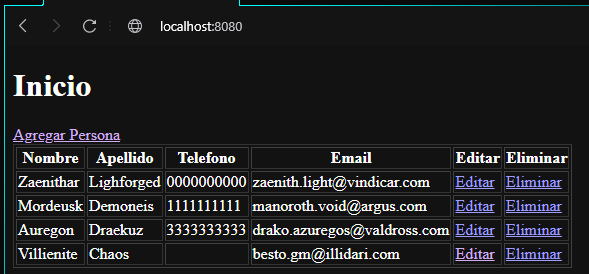
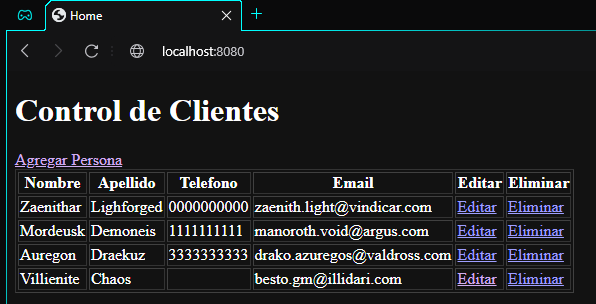
Plantillas y fragmento thymeleaf

diff --git a/Hola-Spring/src/main/resources/templates/modificar.html b/Hola-Spring/src/main/resources/templates/modificar.html
@@ -5,9 +5,9 @@
     <title>Datos de la persona</title>
 </head>
 <body>
-    <h1>Datos de la persona</h1>
+    <header th:replace="layout/plantilla :: headerPerron"></header>
     <a th:href="@{/}">Regresar</a>
-    <br><br><br>
+    <br>
     <form th:action="@{/guardar}" method="POST" th:object="${persona}">
         <input type="hidden" name="personaId" th:field="*{personaId}" /> <br>
         <label for="nombre">Nombre:</label>
@@ -23,5 +23,9 @@
         <input type="tel" name="telefono" th:field="*{telefono}" />
         <button type="submit" name="guardar">Guardar</button>
     </form>
+    <br>
+    <br>
+    <br>
+    <footer th:replace="layout/plantilla :: footerAunMasPerron"></footer>
 </body>
 </html>

diff --git a/Hola-Spring/src/main/resources/templates/index.html b/Hola-Spring/src/main/resources/templates/index.html
@@ -5,7 +5,7 @@
     <title>Home</title>
 </head>
 <body>
-<h1>Inicio</h1>
+<header th:replace="layout/plantilla :: headerPerron"></header>
 <a th:href="@{/agregar}">Agregar Persona</a>
     <table border="1">
         <tr>
@@ -25,5 +25,9 @@
             <td><a th:href="@{/eliminar/} + ${persona.personaId}">Eliminar</a></td>
         </tr>
     </table>
+<br>
+<br>
+<br>
+<footer th:replace="layout/plantilla :: footerAunMasPerron"></footer>
 </body>
 </html>

diff --git a/Hola-Spring/src/main/resources/templates/layout/plantilla.html b/Hola-Spring/src/main/resources/templates/layout/plantilla.html
@@ -1,0 +1,18 @@
+<!DOCTYPE html>
+<html lang="en"
+      xmlns:th="http://www.thymeleaf.org"
+      xmlns="http://www.w3.org/1999/xhtml">
+<head>
+    <meta charset="UTF-8"/>
+    <title>Plantilla</title>
+</head>
+<body>
+    <header th:fragment="headerPerron">
+        <h1>Control de Clientes</h1>
+    </header>
+
+    <footer th:fragment="footerAunMasPerron">
+        <p>Todos los derechos reservados</p>
+    </footer>
+</body>
+</html>

diff --git a/Readme.md b/Readme.md
@@ -1,40 +1,60 @@
-# Seccion 7
-## Validacion con Spring
+# Seccion 8
+## Plantillas Thymelead
 
-### Modelo - Persona
-- Las validaciones de Spring se pueden llevar a cabo mediante anotacion a nivel de campo
-- En caso de requerir la librria de:
-  - `<dependency><groupId>org.springframework.boot</groupId><artifactId>spring-boot-starter-validation</artifactId></dependency>`
-- Para `Strings`, `@NotEmpty` permite validar que un campo no venga vacio ni sea nulo
-- Para el campo emial, podemos usar `@Email` que tambien valdia la estructura de la cadena
+### Objetivo
+- Las plantillas de Thymeleaf nos evita tener que estar repitiendo codigo en cada una de las vistas
+  - Por ejemplo, si agregamos un `footer`, el tener que codificarlo en `index.html` y en `modificar.html`
 
-![img_3.png](img_3.png)
+### Plantillas
+- Sobre la carpeta de `templates`, agregaremos una nueva llamada `layout`
+- Luego crearemos un nuevo archivo html llamado `plantilla`
+- Configuramos la plantilla con el namespace:
+  - Thymeleaf: `xmlns:th="http://www.thymeleaf.org"`
+  - W3: `xmlns="http://www.w3.org/1999/xhtml"`
+    - Este nos permitira evitar los errores que aparecen en el archivo html
+- Como esta plantilla se va a reutilizar en index y en modificar, vamos a divirila en varias secciones
 
-### Vista - modificat.html
-- En el formulario, es necesario agregar la informacion en caso de que haya un error de validacion
-- Para validar agregamos `th:if="${#fields.hasErrors('nombre')}"`:
-  - `th:if`: componente de thymeleaf para hacer validaciones
-  - `#fields`: wildcard para referenciar los campos
-  - `.hasErrors('nombre')`: funcion que valida si hay errores sobre algun campo
-- Para desplegar mensaje de error usamos `th:errors="*{nombre}"`
-  - componente de thymeleaf para acceder a los errores de un campo en particular
-
-### Controlador - /guardar
-- En el controlador, en el path de guardar, debemos esdpecificar que el modelo persona se debe validar
-- Para ello debemos agregar `@Valid` antes del objeto persona que se pasa como argumento
-- Tambien se debe pasar como argumento el objeto `Errors` para saber si se ha recibio algun error del formulario
-- Finalmente debemos validar la existencia de errores y retornar la vista de `modificar` en caso de que los haya 
+### Configuracion - header
+- Para configurar un header como reutilizable para otras paginas debemos de hacer lo siguiente
+- Dentro del componente a reutilizar, agregamos `th:fragment="headerPerron"`. entre comillas el nombre
+- Ahora ya podemos comenzar a construir ese compoennte con lo que deseemos
 
 ![img.png](img.png)
 
-- En caso de haber un error en un campo, se desplegara el erro en el formulario
+### Reutilizacion - index.html
+- Ahora solo debemos referenciar el fragmento que hemos creadod e la siguiente forma: `<header th:replace="layout/plantilla :: headerPerron"></header>`
+  - `header` es el componente que definimos en la plantilla
+  - `th:replace` componente de thyme leaf para referenciar el fragmento
+  - `layout/plantilla` la ruta de la plantilla que contiene el fragmento
+  - `:: headerPerron` el nombre del fragmento que queremos reutilizar
 
 ![img_1.png](img_1.png)
 
-- Solo hasta llenar la informacion nos permitira guardar
-- El telefono no es requerido, por lo que no validara el contenido de ese campo
+- Con esto podemos observar que el ehader  de la plantilla ya aparece en amabas vistas
 
 ![img_2.png](img_2.png)
+
+![img_3.png](img_3.png)
+
+### Plantilla - footer
+- Podemos definir un footer dentro del mismo layout `plantilla` siempre y cuando lo configuremos de la misma forma, como un fragmento
+
+![img_4.png](img_4.png)
+
+![img_5.png](img_5.png)
+
+- Con esto podemos observar el nuevo fragmento de la plantilla en ambas paginas
+
+![img_6.png](img_6.png)
+
+![img_7.png](img_7.png)
+
+### Conlusion
+- Se pueden crear diferentes plantillas con diferentes fragmentos cada uno
+- Cada plantilla puede tener mas de un fragmento reutilziable
+- Los fragmentos se peuden llamar por separado en diferentes vistas para no tener que repetir codigo HTML
+
+
 
 
 
